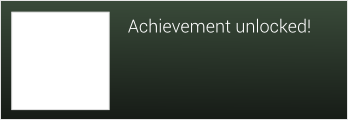
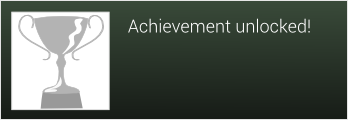
updates to achievements, updates to scene draw when object parented, save files keep stats on game duration

Changed region(s): [[0.0575, 0.125, 0.2874, 0.925], [0.2874, 0.15, 0.3161, 0.275], [0.0287, 0.175, 0.0575, 0.25]]

diff --git a/__init__.py b/__init__.py
@@ -23,7 +23,7 @@ from os.path import expanduser
 
 from argparse import ArgumentParser
 from collections import Iterable
-from datetime import datetime
+from datetime import datetime, timedelta
 from gettext import gettext
 from random import choice, randint, uniform
 
@@ -146,7 +146,8 @@ GOTO_NEVER = 3 #call the interact functions immediately
 
 FONT_ACHIEVEMENT = FONT_VERA
 FONT_ACHIEVEMENT_SIZE = 10
-FONT_ACHIEVEMENT_COLOUR = (215,215,225)
+FONT_ACHIEVEMENT_COLOUR = (245, 245, 255)
+FONT_ACHIEVEMENT_COLOUR2 = (215, 215, 225)
 
 # LAYOUTS FOR MENUS and MENU FACTORIES
 HORIZONTAL = 0
@@ -1036,11 +1037,12 @@ class AchievementManager(object, metaclass=use_on_events):
 
     def grant(self, game, slug):
         """ Grant an achievement to the player """
-        if slug in self.granted: return #already granted
+        if slug in self.granted: return False #already granted
         new_achievement = copy.copy(self._achievements[slug])
         new_achievement.date = datetime.now()
         new_achievement.version = game.version
         self.granted[slug] = new_achievement
+        return True
 
     def present(self, game, slug):
         a = self._achievements[slug]
@@ -1049,9 +1051,18 @@ class AchievementManager(object, metaclass=use_on_events):
             game.achievement.load_assets(game)
             game.achievement.relocate(game.scene, (120, game.resolution[1]))
 
-            text = Text("achievement_text", pos=(180,60), display_text=a.name, colour=FONT_ACHIEVEMENT_COLOUR, font=FONT_ACHIEVEMENT, size=FONT_ACHIEVEMENT_SIZE)
+            text = Text("achievement_text", pos=(130,240), display_text=a.name, colour=FONT_ACHIEVEMENT_COLOUR, font=FONT_ACHIEVEMENT, size=FONT_ACHIEVEMENT_SIZE)
             game.add(text, replace=True)
+            text._ay = 200
             text.reparent("achievement")
+            text.relocate(game.scene)
+
+#            text = Text("achievement_text2", pos=(130,260), display_text=a.description, colour=FONT_ACHIEVEMENT_COLOUR2, font=FONT_ACHIEVEMENT, size=FONT_ACHIEVEMENT_SIZE)
+#            game.add(text, replace=True)
+#            text._ay = 200
+#            text.reparent("achievement")
+#            text.relocate(game.scene)
+
             game.achievement.relocate(game.scene)
             game.achievement.motion("popup", mode=ONCE, block=True)
             #TODO: replace with bounce Motion
@@ -1064,7 +1075,8 @@ class Storage(object):
 
     """ Per game data that the developer wants stored with the save game file"""
     def __init__(self):
-        pass
+        self._total_time_in_game = timedelta(seconds=0)
+        self._last_save_time = datetime.now()
 
     def __getstate__(self):
         return self.__dict__
@@ -2054,6 +2066,16 @@ class Actor(object, metaclass=use_on_events):
         self._y = v
     y = property(get_y, set_y)
 
+    @property
+    def rank(self):
+        """ draw rank in scene order """
+        y = self._y
+        if self._parent:
+            parent = get_object(self.game, self._parent)
+            y += parent.y
+            y += parent._vy
+        return y
+
     def get_position(self):
         return (self._x, self._y)
 
@@ -2781,6 +2803,9 @@ class Actor(object, metaclass=use_on_events):
                 parent = get_object(self.game, self._parent)
                 x += parent.x
                 y += parent.y
+                x += parent._vx
+                y += parent._vy
+
 
             x = x + self.ax
             if not self.game:
@@ -5000,8 +5025,9 @@ class Text(Item):
 
         x, y = self.x, self.y
         if self._parent:
-            x += self._parent.x
-            y += self._parent.y
+            parent = get_object(self.game, self._parent)
+            x += parent.x
+            y += parent.y
 
         if not absolute and self.game.scene:
             x += self.game.scene.x * self.z
@@ -6051,6 +6077,9 @@ class PyvidaEncoder(json.JSONEncoder):
 
 
 def save_game(game, fname):
+    # XXX not accurate as saving game will change this.
+    game.storage._total_time_in_game += datetime.now() - game.storage._last_save_time
+    game.storage._last_save_time = datetime.now()
     save_game_pickle(game, fname)
 
 
@@ -6423,6 +6452,10 @@ class Game(metaclass=use_on_events):
         pdb.set_trace()
         return data
 
+    @property
+    def time_in_game(self):
+        return self.storage._total_time_in_game + (datetime.now() - self.storage._last_save_time)
+
     def on_key_press(self, symbol, modifiers):
         global use_effect
         game = self
@@ -6488,6 +6521,8 @@ class Game(metaclass=use_on_events):
             print("finished casting")
 
         if symbol == pyglet.window.key.F9:
+            self.settings.achievements.present(game, "puzzle")
+            return
             for i in range(1,1000):
                 game.player.generate_world(i)
                 game.menu.clear()
@@ -7663,7 +7698,7 @@ class Game(metaclass=use_on_events):
                 scene_objects.append(get_object(self, obj_name))
         # - x._parent.y if x._parent else 0
         try:
-            objects = sorted(scene_objects, key=lambda x: x.y, reverse=False)
+            objects = sorted(scene_objects, key=lambda x: x.rank, reverse=False)
             objects = sorted(objects, key=lambda x: x.z, reverse=False)
         except AttributeError:
             import pdb; pdb.set_trace()
